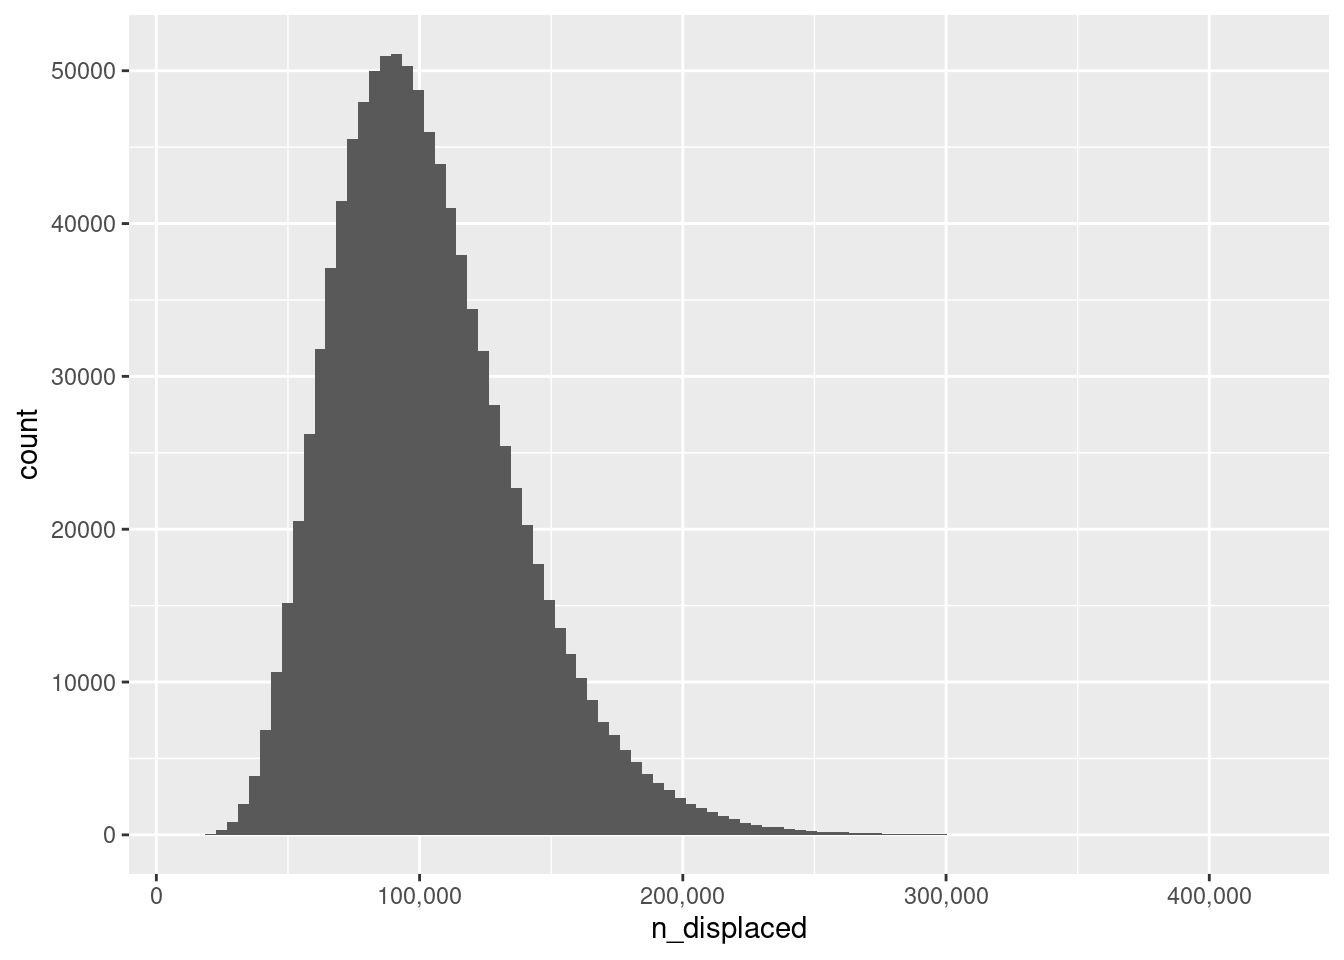
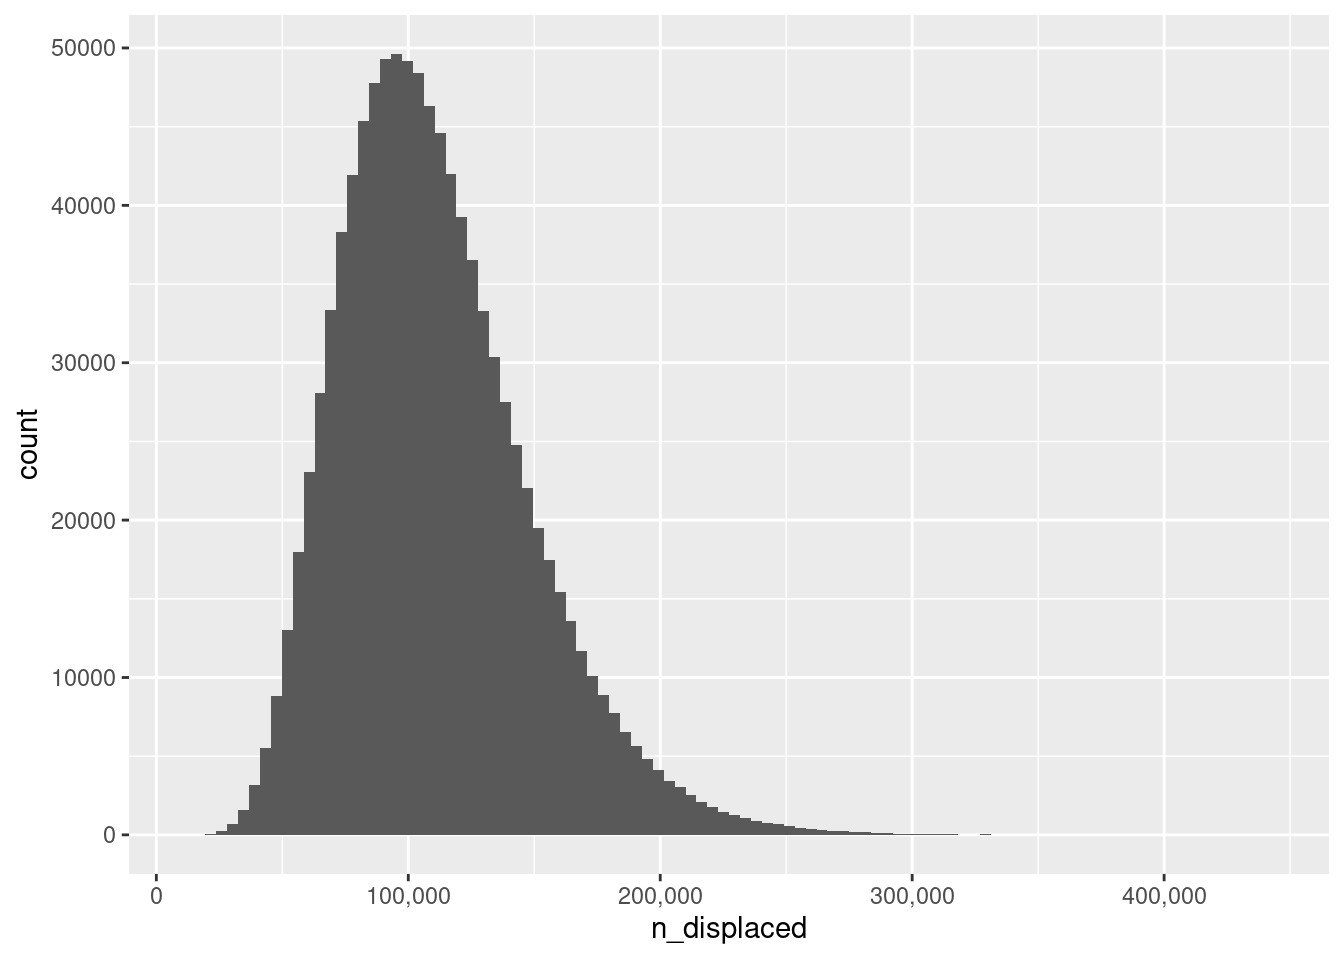
siiiiigh. fixes idiotic fuckup (#105)

diff --git a/_site/posts/2023-06-15_dark-times/index.html b/_site/posts/2023-06-15_dark-times/index.html
@@ -252,14 +252,14 @@ pre > code.sourceCode > span > a:first-child::before { text-decoration: underlin
 n &amp; \sim &amp; \mbox{Binomial}(\theta, N = 166)
 \end{array}
 \]</span></p>
-<p>Given <span class="math inline">\(n = 13\)</span> displaced people from a simple random sample of <span class="math inline">\(N = 166\)</span> transgender people, the posterior distribution proportion of displaced trans people is given by a Beta(14, 167) distribution. As such our 95% equal-tail credible interval is straightforwardly calculated as follows:</p>
+<p>Given <span class="math inline">\(n = 13\)</span> displaced people from a simple random sample of <span class="math inline">\(N = 166\)</span> transgender people, the posterior proportion of displaced trans people is given by a Beta(14, 154) distribution.<a href="#fn1" class="footnote-ref" id="fnref1" role="doc-noteref"><sup>1</sup></a> As such our 95% equal-tail credible interval is straightforwardly calculated as follows:</p>
 <div class="cell">
-<div class="sourceCode cell-code" id="cb1"><pre class="sourceCode r code-with-copy"><code class="sourceCode r"><span id="cb1-1"><a href="#cb1-1" aria-hidden="true" tabindex="-1"></a><span class="fu">qbeta</span>(<span class="fu">c</span>(.<span class="dv">025</span>, .<span class="dv">975</span>), <span class="dv">14</span>, <span class="dv">167</span>)</span></code><button title="Copy to Clipboard" class="code-copy-button"><i class="bi"></i></button></pre></div>
+<div class="sourceCode cell-code" id="cb1"><pre class="sourceCode r code-with-copy"><code class="sourceCode r"><span id="cb1-1"><a href="#cb1-1" aria-hidden="true" tabindex="-1"></a><span class="fu">qbeta</span>(<span class="fu">c</span>(.<span class="dv">025</span>, .<span class="dv">975</span>), <span class="dv">14</span>, <span class="dv">154</span>)</span></code><button title="Copy to Clipboard" class="code-copy-button"><i class="bi"></i></button></pre></div>
 <div class="cell-output cell-output-stdout">
-<pre><code>[1] 0.04317318 0.12033578</code></pre>
+<pre><code>[1] 0.0465905 0.1294375</code></pre>
 </div>
 </div>
-<p>In other words, the data from this survey suggest that somewhere between 4% and 12% of all transgender adults in the United States have been internally displaced as a consequence of the deluge of anti-trans legislation in the last few years.<a href="#fn1" class="footnote-ref" id="fnref1" role="doc-noteref"><sup>1</sup></a> How many people is that, really? To answer that question we need to know something about how many trans people there are in the United States.</p>
+<p>In other words, the data from this survey suggest that somewhere between 5% and 13% of all transgender adults in the United States have been internally displaced as a consequence of the deluge of anti-trans legislation in the last few years.<a href="#fn2" class="footnote-ref" id="fnref2" role="doc-noteref"><sup>2</sup></a> How many people is that, really? To answer that question we need to know something about how many trans people there are in the United States.</p>
 </section>
 <section id="what-proportion-of-the-us-population-is-transgender" class="level2">
 <h2 class="anchored" data-anchor-id="what-proportion-of-the-us-population-is-transgender">What proportion of the US population is transgender?</h2>
@@ -284,7 +284,7 @@ n &amp; \sim &amp; \mbox{Binomial}(\theta, N = 166)
 <div class="sourceCode cell-code" id="cb5"><pre class="sourceCode r code-with-copy"><code class="sourceCode r"><span id="cb5-1"><a href="#cb5-1" aria-hidden="true" tabindex="-1"></a>sim <span class="ot">&lt;-</span> tibble<span class="sc">::</span><span class="fu">tibble</span>(</span>
 <span id="cb5-2"><a href="#cb5-2" aria-hidden="true" tabindex="-1"></a> <span class="at">n_adults =</span> <span class="dv">255201250</span>,</span>
 <span id="cb5-3"><a href="#cb5-3" aria-hidden="true" tabindex="-1"></a> <span class="at">prop_trans =</span> <span class="fu">rbeta</span>(<span class="dv">1000000</span>, <span class="at">shape1 =</span> <span class="fl">20.3</span>, <span class="at">shape2 =</span> <span class="dv">3880</span>),</span>
-<span id="cb5-4"><a href="#cb5-4" aria-hidden="true" tabindex="-1"></a> <span class="at">prop_displaced =</span> <span class="fu">rbeta</span>(<span class="dv">1000000</span>, <span class="at">shape1 =</span> <span class="dv">14</span>, <span class="at">shape2 =</span> <span class="dv">167</span>),</span>
+<span id="cb5-4"><a href="#cb5-4" aria-hidden="true" tabindex="-1"></a> <span class="at">prop_displaced =</span> <span class="fu">rbeta</span>(<span class="dv">1000000</span>, <span class="at">shape1 =</span> <span class="dv">14</span>, <span class="at">shape2 =</span> <span class="dv">154</span>),</span>
 <span id="cb5-5"><a href="#cb5-5" aria-hidden="true" tabindex="-1"></a> <span class="at">n_displaced =</span> n_adults <span class="sc">*</span> prop_trans <span class="sc">*</span> prop_displaced</span>
 <span id="cb5-6"><a href="#cb5-6" aria-hidden="true" tabindex="-1"></a>)</span></code><button title="Copy to Clipboard" class="code-copy-button"><i class="bi"></i></button></pre></div>
 </div>
@@ -302,19 +302,19 @@ n &amp; \sim &amp; \mbox{Binomial}(\theta, N = 166)
 <div class="cell">
 <div class="sourceCode cell-code" id="cb7"><pre class="sourceCode r code-with-copy"><code class="sourceCode r"><span id="cb7-1"><a href="#cb7-1" aria-hidden="true" tabindex="-1"></a><span class="fu">mean</span>(sim<span class="sc">$</span>n_displaced)</span></code><button title="Copy to Clipboard" class="code-copy-button"><i class="bi"></i></button></pre></div>
 <div class="cell-output cell-output-stdout">
-<pre><code>[1] 102741</code></pre>
+<pre><code>[1] 110693.9</code></pre>
 </div>
 </div>
-<p>About 103000 people. That’s… a lot, and that number doesn’t even include the families of transgender adults, or transgender children, or the families of transgender children. I mean, there aren’t many of us. We are a small population, and this is a humanitarian disaster for transgender people in the United States. It’s something that has been building for several years now, and every trans person knows it.</p>
-<p>The precise scale of the disaster isn’t entirely clear from the data. The point estimate of 100,000 people could be out by a factor of 2 in either direction, which you can see by calculating the 95% credible interval:</p>
+<p>About 111000 people. That’s… a lot, and that number doesn’t even include the families of transgender adults, or transgender children, or the families of transgender children. I mean, there aren’t many of us. We are a small population, and this is a humanitarian disaster for transgender people in the United States. It’s something that has been building for several years now, and every trans person knows it.</p>
+<p>The precise scale of the disaster isn’t entirely clear from the data. The point estimate of 111k people could be out by a factor of 2 in either direction, which you can see by calculating the 95% credible interval:</p>
 <div class="cell">
 <div class="sourceCode cell-code" id="cb9"><pre class="sourceCode r code-with-copy"><code class="sourceCode r"><span id="cb9-1"><a href="#cb9-1" aria-hidden="true" tabindex="-1"></a><span class="fu">quantile</span>(sim<span class="sc">$</span>n_displaced, <span class="fu">c</span>(.<span class="dv">025</span>, .<span class="dv">975</span>))</span></code><button title="Copy to Clipboard" class="code-copy-button"><i class="bi"></i></button></pre></div>
 <div class="cell-output cell-output-stdout">
 <pre><code>     2.5%     97.5% 
- 47771.44 184589.78 </code></pre>
+ 51674.64 198492.39 </code></pre>
 </div>
 </div>
-<p>Between 48000 and 185000 transgender adults have been displaced. No matter how you look at it, a <em>lot</em> of people have been forced to flee already.</p>
+<p>Between 52000 and 198000 transgender adults have been displaced. No matter how you look at it, a <em>lot</em> of people have been forced to flee already.</p>
 <p>At some point the rest of the American population will start to actually <em>do</em> something about this, right? I mean, something <strong>other</strong> than make it worse or waste your time and effort by <a href="https://statmodeling.stat.columbia.edu/2021/07/18/what-is-a-woman/">whining about the threat to society posed by trans women in sports and asking “what is a woman?”</a>.</p>
 
 
@@ -324,7 +324,8 @@ n &amp; \sim &amp; \mbox{Binomial}(\theta, N = 166)
 <div id="quarto-appendix" class="default"><section id="footnotes" class="footnotes footnotes-end-of-document" role="doc-endnotes"><h2 class="anchored quarto-appendix-heading">Footnotes</h2>
 
 <ol>
-<li id="fn1"><p>You could do the same thing in a frequentist way, of course, but that would be no less crude than this Bayesian method, and anyway I already did that and found essentially the same answer. This isn’t a situation where Bayes-vs-orthodox matters very much. In the real world, the nuance is entirely around the SRS assumption and the accuracy of the responses. In that respect I’m of course oversimplifying, but let’s be honest… how much do you <em>really</em> think this would change things? Be honest.<a href="#fnref1" class="footnote-back" role="doc-backlink">↩</a></p></li>
+<li id="fn1"><p>Huge thank you to Martin Modrák for noticing the mistake in which I’d originally specified a Beta(14, 167) distribution here like an idiot.<a href="#fnref1" class="footnote-back" role="doc-backlink">↩</a></p></li>
+<li id="fn2"><p>You could do the same thing in a frequentist way, of course, but that would be no less crude than this Bayesian method, and anyway I already did that and found essentially the same answer. This isn’t a situation where Bayes-vs-orthodox matters very much. In the real world, the nuance is entirely around the SRS assumption and the accuracy of the responses. In that respect I’m of course oversimplifying, but let’s be honest… how much do you <em>really</em> think this would change things? Be honest.<a href="#fnref2" class="footnote-back" role="doc-backlink">↩</a></p></li>
 </ol>
 </section><section class="quarto-appendix-contents"><h2 class="anchored quarto-appendix-heading">Reuse</h2><div id="quarto-reuse" class="quarto-appendix-contents"><div><a rel="license" href="https://creativecommons.org/licenses/by/4.0/">https://creativecommons.org/licenses/by/4.0/</a></div></div></section><section class="quarto-appendix-contents"><h2 class="anchored quarto-appendix-heading">Citation</h2><div><div class="quarto-appendix-secondary-label">BibTeX citation:</div><pre class="sourceCode code-with-copy quarto-appendix-bibtex"><code class="sourceCode bibtex">@online{navarro2023,
   author = {Navarro, Danielle},

diff --git a/_site/index.html b/_site/index.html
@@ -188,7 +188,7 @@ ul.task-list li input[type="checkbox"] {
 
 <div class="quarto-listing quarto-listing-container-grid" id="listing-listing">
 <div class="list grid quarto-listing-cols-3">
-<div class="g-col-1" data-index="0" data-categories="R,Statistics" data-listing-date-sort="1686751200000" data-listing-file-modified-sort="1686808837579" data-listing-date-modified-sort="NaN" data-listing-reading-time-sort="8">
+<div class="g-col-1" data-index="0" data-categories="R,Statistics" data-listing-date-sort="1686751200000" data-listing-file-modified-sort="1686830071988" data-listing-date-modified-sort="NaN" data-listing-reading-time-sort="8">
 <a href="./posts/2023-06-15_dark-times/index.html" class="quarto-grid-link">
 <div class="quarto-grid-item card h-100 card-left">
 <p class="card-img-top">
